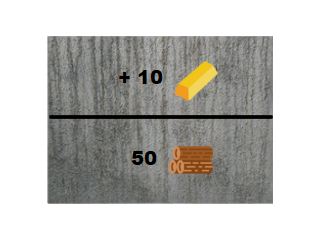
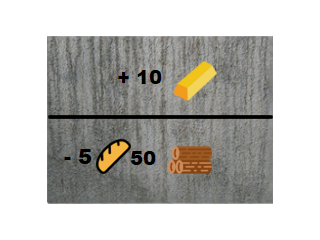
new

diff --git a/Game.html b/Game.html
@@ -11,20 +11,20 @@ body {
     background-repeat: no-repeat;
     background-size: cover;
 }
-
     img {    
-    width: 16%;
+    width: auto;
     height: auto;
     }
 
 </style>
     <h2>
-            <img src="pasek.png" style="position: fixed; right: 0px; top: -75px">
+            <img src="pasek.png" style="position: fixed; right: 538px; top: -25px">
         </h2>
-        <h1 style="position: fixed; right: 1145px; top: -29px; font-size:100%; font-size: 250%;">10</h1>
-        <h3 style="position: fixed; right: 1005px; top: -42px; font-size:100%; font-size: 250%;">50</h3>
-        <h4 style="position: fixed; right: 830px; top: -55px; font-size:100%; font-size: 250%;">25</h4>
-        <h5 style="position: fixed; right: 697px; top: -69px; font-size:100%; font-size: 250%;"></h5>
+        <h1 style="position: fixed; right: 1130px; top: -29px; font-size:100%; font-size: 250%;">1000</h1>
+        <h3 style="position: fixed; right: 1005px; top: -42px; font-size:100%; font-size: 250%;">5000</h3>
+        <h4 style="position: fixed; right: 875px; top: -55px; font-size:100%; font-size: 250%;">2500</h4>
+        <h5 style="position: fixed; right: 765px; top: -69px; font-size:100%; font-size: 250%;">0</h5>
+        <h6 style="position: fixed; right: 629px; top: -94px; font-size:100%; font-size: 250%;">10</h6>
 
 </head>
 <body>
@@ -43,19 +43,19 @@ body {
 </body>
 <script>
 
-const build1 = '<div><img src="arrow.png" style="position: fixed; right: 50px; top: 40px;" onclick="arrow()"><img src="add.png" style="position: fixed; left: 360px; top: 450px;" onclick="drw()"><img src="add.png" style="position: fixed; left: 90px; top: 880px;" onclick="kop()"><img src="add.png" style="position: fixed; left: 840px; top: 510px;" onclick="kos()"><img src="add.png" style="position: fixed; right: 530px; top: 496px;" onclick="chl()"><img src="add.png" style="position: fixed; right: 70px; top: 480px;" onclick="dom()"><img src="add.png" style="position: fixed; right: 100px; top: 840px;" onclick="kam()"></div>'
+const build1 = '<div><img src="arrow.png" style="position: fixed; right: 50px; top: 40px;" onclick="arrow()"><img src="add.png" style="position: fixed; left: 360px; top: 450px;" onclick="drw()"><img src="add.png" style="position: fixed; left: 90px; top: 880px;" onclick="kop()"><img src="add.png" style="position: fixed; left: 840px; top: 510px;" onclick="kos()"><img src="add.png" style="position: fixed; right: 530px; top: 496px;" onclick="chl()"><img src="add.png" style="position: fixed; right: 70px; top: 480px;" onclick="dom()"><img src="add.png" style="position: fixed; right: 100px; top: 840px;" onclick="kam()"><img src="add.png" style="position: fixed; right: 1050px; top: 930px;" onclick="rol()"></div>'
 
-const build2 = '<div><img src="arrow.png" style="position: fixed; right: 50px; top: 40px;" onclick="arrow()"><img src="add.png" style="position: fixed; left: 360px; top: 450px;" onclick="drw2()"><img src="add.png" style="position: fixed; left: 90px; top: 880px;" onclick="kop2()"><img src="add.png" style="position: fixed; left: 840px; top: 510px;" onclick="kos2()"><img src="add.png" style="position: fixed; right: 530px; top: 496px;" onclick="chl2()"><img src="add.png" style="position: fixed; right: 70px; top: 480px;" onclick="dom2()"><img src="add.png" style="position: fixed; right: 100px; top: 840px;" onclick="kam2()"></div>'
+const build2 = '<div><img src="arrow.png" style="position: fixed; right: 50px; top: 40px;" onclick="arrow()"><img src="add.png" style="position: fixed; left: 360px; top: 450px;" onclick="drw2()"><img src="add.png" style="position: fixed; left: 90px; top: 880px;" onclick="kop2()"><img src="add.png" style="position: fixed; left: 840px; top: 510px;" onclick="kos2()"><img src="add.png" style="position: fixed; right: 530px; top: 496px;" onclick="chl2()"><img src="add.png" style="position: fixed; right: 70px; top: 480px;" onclick="dom2()"><img src="add.png" style="position: fixed; right: 100px; top: 840px;" onclick="kam2()"><img src="add.png" style="position: fixed; right: 1050px; top: 930px;" onclick="rol2()"></div>'
 
-const build3 = '<div><img src="arrow.png" style="position: fixed; right: 50px; top: 40px;" onclick="arrow()"><img src="add.png" style="position: fixed; left: 360px; top: 450px;" onclick="drw3()"><img src="add.png" style="position: fixed; left: 90px; top: 880px;" onclick="kop3()"><img src="add.png" style="position: fixed; left: 840px; top: 510px;" onclick="kos3()"><img src="add.png" style="position: fixed; right: 530px; top: 496px;" onclick="chl3()"><img src="add.png" style="position: fixed; right: 70px; top: 480px;" onclick="dom3()"><img src="add.png" style="position: fixed; right: 100px; top: 840px;" onclick="kam3()"></div>'
+const build3 = '<div><img src="arrow.png" style="position: fixed; right: 50px; top: 40px;" onclick="arrow()"><img src="add.png" style="position: fixed; left: 360px; top: 450px;" onclick="drw3()"><img src="add.png" style="position: fixed; left: 90px; top: 880px;" onclick="kop3()"><img src="add.png" style="position: fixed; left: 840px; top: 510px;" onclick="kos3()"><img src="add.png" style="position: fixed; right: 530px; top: 496px;" onclick="chl3()"><img src="add.png" style="position: fixed; right: 70px; top: 480px;" onclick="dom3()"><img src="add.png" style="position: fixed; right: 100px; top: 840px;" onclick="kam3()"><img src="add.png" style="position: fixed; right: 1050px; top: 930px;" onclick="rol3()"></div>'
 
-const build4 = '<div><img src="arrow.png" style="position: fixed; right: 50px; top: 40px;" onclick="arrow()"><img src="add.png" style="position: fixed; left: 360px; top: 450px;" onclick="drw4()"><img src="add.png" style="position: fixed; left: 90px; top: 880px;" onclick="kop4()"><img src="add.png" style="position: fixed; left: 840px; top: 510px;" onclick="kos4()"><img src="add.png" style="position: fixed; right: 530px; top: 496px;" onclick="chl4()"><img src="add.png" style="position: fixed; right: 70px; top: 480px;" onclick="dom4()"><img src="add.png" style="position: fixed; right: 100px; top: 840px;" onclick="kam4()"></div>'
+const build4 = '<div><img src="arrow.png" style="position: fixed; right: 50px; top: 40px;" onclick="arrow()"><img src="add.png" style="position: fixed; left: 360px; top: 450px;" onclick="drw4()"><img src="add.png" style="position: fixed; left: 90px; top: 880px;" onclick="kop4()"><img src="add.png" style="position: fixed; left: 840px; top: 510px;" onclick="kos4()"><img src="add.png" style="position: fixed; right: 530px; top: 496px;" onclick="chl4()"><img src="add.png" style="position: fixed; right: 70px; top: 480px;" onclick="dom4()"><img src="add.png" style="position: fixed; right: 100px; top: 840px;" onclick="kam4()"><img src="add.png" style="position: fixed; right: 1050px; top: 930px;" onclick="rol4()"></div>'
 
-const build5 = '<div><img src="arrow.png" style="position: fixed; right: 50px; top: 40px;" onclick="arrow()"><img src="add.png" style="position: fixed; left: 360px; top: 450px;" onclick="drw5()"><img src="add.png" style="position: fixed; left: 90px; top: 880px;" onclick="kop5()"><img src="add.png" style="position: fixed; left: 840px; top: 510px;" onclick="kos5()"><img src="add.png" style="position: fixed; right: 530px; top: 496px;" onclick="chl5()"><img src="add.png" style="position: fixed; right: 70px; top: 480px;" onclick="dom5()"><img src="add.png" style="position: fixed; right: 100px; top: 840px;" onclick="kam5()"></div>'
+const build5 = '<div><img src="arrow.png" style="position: fixed; right: 50px; top: 40px;" onclick="arrow()"><img src="add.png" style="position: fixed; left: 360px; top: 450px;" onclick="drw5()"><img src="add.png" style="position: fixed; left: 90px; top: 880px;" onclick="kop5()"><img src="add.png" style="position: fixed; left: 840px; top: 510px;" onclick="kos5()"><img src="add.png" style="position: fixed; right: 530px; top: 496px;" onclick="chl5()"><img src="add.png" style="position: fixed; right: 70px; top: 480px;" onclick="dom5()"><img src="add.png" style="position: fixed; right: 100px; top: 840px;" onclick="kam5()"><img src="add.png" style="position: fixed; right: 1050px; top: 930px;" onclick="rol5()"></div>'
 
-const build6 = '<div><img src="arrow.png" style="position: fixed; right: 50px; top: 40px;" onclick="arrow()"><img src="add.png" style="position: fixed; left: 360px; top: 450px;" onclick="drw6()"><img src="add.png" style="position: fixed; left: 90px; top: 880px;" onclick="kop6()"><img src="add.png" style="position: fixed; left: 840px; top: 510px;" onclick="kos6()"><img src="add.png" style="position: fixed; right: 530px; top: 496px;" onclick="chl6()"><img src="add.png" style="position: fixed; right: 70px; top: 480px;" onclick="dom6()"><img src="add.png" style="position: fixed; right: 100px; top: 840px;" onclick="kam6()"></div>'
+const build6 = '<div><img src="arrow.png" style="position: fixed; right: 50px; top: 40px;" onclick="arrow()"><img src="add.png" style="position: fixed; left: 360px; top: 450px;" onclick="drw6()"><img src="add.png" style="position: fixed; left: 90px; top: 880px;" onclick="kop6()"><img src="add.png" style="position: fixed; left: 840px; top: 510px;" onclick="kos6()"><img src="add.png" style="position: fixed; right: 530px; top: 496px;" onclick="chl6()"><img src="add.png" style="position: fixed; right: 70px; top: 480px;" onclick="dom6()"><img src="add.png" style="position: fixed; right: 100px; top: 840px;" onclick="kam6()"><img src="add.png" style="position: fixed; right: 1050px; top: 930px;" onclick="rol6()"></div>'
 
-const buildch1 = '<div><img src="arrow.png" style="position: fixed; right: 50px; top: 40px;" onclick="arrow()"></div>'
+const buildch1 = '<div><img src="arrow.png" style="position: fixed; right: 50px; top: 40px;" onclick="arrow()"><img src="bin.png" style="position: fixed; left: 360px; top: 450px;" onclick="chdestroy()"><img src="up.png" style="position: fixed; left: 100px; top: 450px;" onclick="chupgrade()"><img src="bell.png" style="position: fixed; left: 100px; top: 800px;" onclick="ring()"></div>'
 
 g = 1
 
@@ -64,6 +64,8 @@ w = 3.67
 s = 1
 
 i = 0
+
+f = 0
 
     gold = document.querySelector('h1').innerHTML
 
@@ -77,7 +79,7 @@ setInterval(function(){ document.querySelector('h1').innerHTML = Math.round(gold
 
 wood = parseInt(wood)
 
-setInterval(function(){ wood += w  }, 4000)
+setInterval(function(){ wood += w  }, 8000)
 
 setInterval(function(){ document.querySelector('h3').innerHTML = Math.round(wood) }, 000)
 
@@ -89,13 +91,21 @@ setInterval(function(){ stone += s }, 20000)
 
 setInterval(function(){ document.querySelector('h4').innerHTML = Math.round(stone) }, 000)
 
-    iron = document.querySelector('h5').innerHTML
+iron = document.querySelector('h5').innerHTML
 
 iron = parseInt(iron)
 
 setInterval(function(){ iron += i }, 1000)
 
 setInterval(function(){ document.querySelector('h5').innerHTML = Math.round(iron) }, 000)
+
+food = document.querySelector('h6').innerHTML
+
+food = parseInt(food)
+
+setInterval(function(){ food += f }, 1000)
+
+setInterval(function(){ document.querySelector('h6').innerHTML = Math.round(food) }, 000)
 
 a1 = '<img src="land.png" style="position: fixed; left: 0px; top: 415px;" onclick="podmiana1()">'
 
@@ -182,10 +192,13 @@ vers.outerHTML ='<div><img src="log.png" style="position: fixed; left: 530px; to
 
 function dom(){
 
-if (wood >= 50){
+if (wood >= 50 && f >= 0.09){
 
 a1 = '<img src="log.png" style="position: fixed; left: 0px; top: 415px;">'
+
+f -= 0.09
 g += 1.33
+
 wood -= 50
 
 arrow()
@@ -261,11 +274,26 @@ arrow()
 }
 }
 
+function rol(){
+
+if (wood >= 50){
+
+a1 = '<img src="field.png" style="position: fixed; left: 0px; top: 415px;">'
+f += 0.17
+wood -= 50
+
+arrow()
+
+}
+}
 function dom2(){
-    if (wood >= 50){
+    if (wood >= 50 && f >= 0.09){
 
 a2 = '<img src="log.png" style="position: fixed; left: 0px; top: 800px;">'
+if (food >= 5){
+f -= 0.09
 g += 1.33
+}
 wood -= 50
 
 arrow()
@@ -341,11 +369,27 @@ arrow()
 }
 }
 
+function rol2(){
+
+if (wood >= 50){
+
+a2 = '<img src="field.png" style="position: fixed; left: 0px; top: 800px">'
+f += 0.17
+wood -= 50
+
+arrow()
+
+}
+}
+
 function dom3(){
-    if (wood >= 50){
+    if (wood >= 50 && f >= 0.09){
 
 a3 = '<img src="log.png" style="position: fixed; right: 500px; top: 700px">'
+if (food >= 5){
+f -= 0.09
 g += 1.33
+}
 wood -= 50
 
 arrow()
@@ -421,12 +465,28 @@ arrow()
 }
 }
 
+function rol3(){
+
+if (wood >= 50){
+
+a3 = '<img src="field.png" style="position: fixed; right: 500px; top: 700px">'
+f += 0.17
+wood -= 50
+
+arrow()
+
+}
+}
+
 function dom4(){
 
-    if (wood >= 50){
+    if (wood >= 50 && f >= 0.09){
 
 a4 = '<img src="log.png" style="position: fixed; left: 500px; top: 400px">'
+if (food >= 5){
+f -= 0.09
 g += 1.33
+}
 wood -= 50
 
 arrow()
@@ -502,12 +562,28 @@ arrow()
 }
 }
 
+function rol4(){
+
+if (wood >= 50){
+
+a4 = '<img src="field.png" style="position: fixed; left: 500px; top: 400px;">'
+f += 0.17
+wood -= 50
+
+arrow()
+
+}
+}
+
 function dom5(){
 
-    if (wood >= 50){
+    if (wood >= 50 && f >= 0.09){
 
 a5 = '<img src="log.png" style="position: fixed; right: 0px; top: 600px">'
+if (food >= 5){
+f -= 0.09
 g += 1.33
+}
 wood -= 50
 
 arrow()
@@ -583,16 +659,31 @@ arrow()
 }
 }
 
-function dom6(){
+function rol5(){
 
 if (wood >= 50){
 
-a6 = '<img src="log.png" style="position: fixed; right: 410px; top: 521px">'
-g += 1.33
+a5 = '<img src="field.png" style="position: fixed; right: 0px; top: 600px">'
+f += 0.17
 wood -= 50
 
 arrow()
 
+}
+}
+
+function dom6(){
+
+if (wood >= 50 && f >= 0.09){
+
+a6 = '<img src="log.png" style="position: fixed; right: 410px; top: 521px">'
+if (food >= 5){
+f -= 0.09
+g += 1.33
+}
+wood -= 50
+
+arrow()
 }
 }
 function drw6(){
@@ -664,11 +755,23 @@ arrow()
 }
 }
 
+function rol6(){
+
+if (wood >= 50){
+
+a6 = '<img src="field.png" style="position: fixed; right: 410px; top: 521px">'
+f += 0.17
+wood -= 50
+
+arrow()
+
+}
+}
 
 function ch1(){
 
 const back = document.querySelector("style")
-back.innerHTML= 'body  {background-image: url("tree.jpg");  background-attachment: fixed; background-position: fixed center; background-size: 100%;}'
+back.innerHTML= 'body  {background-image: url("chinside.jpg");  background-attachment: fixed; background-position: fixed center; background-size: 100%;}'
 
 const vers = document.querySelector('div')
 
